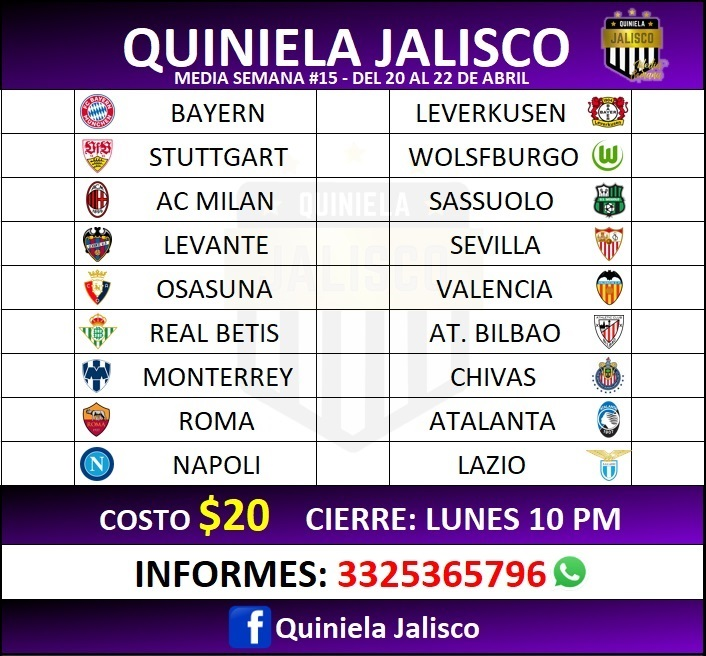
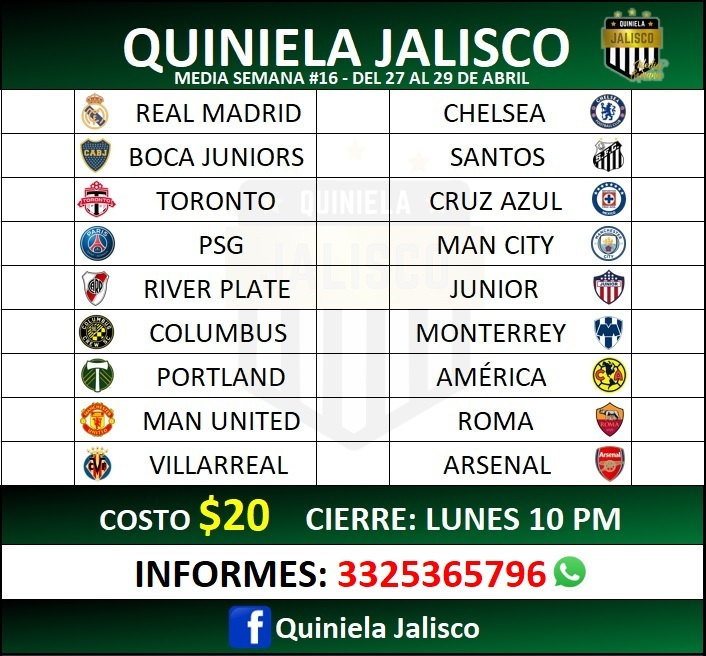
Media Semana #16

diff --git a/MediaSemana/stylesm.css b/MediaSemana/stylesm.css
@@ -89,8 +89,8 @@ h1{
     margin-top: 8%;
     border: solid 1px black;
     border-radius: 0 0 14px 14px;
-    background: -webkit-linear-gradient(0.04turn, rgb(0,0,0)  ,rgb(113,0,192) 80%);
-    background: linear-gradient(0.04turn, rgb(0,0,0)  ,rgb(113,0,192) 80%);
+    background: -webkit-linear-gradient(0.04turn, rgb(0,0,0)  ,rgb(0,110,51) 80%);
+    background: linear-gradient(0.04turn, rgb(0,0,0)  ,rgb(0,110,51) 80%);
     font-size: x-large;
 }
 
